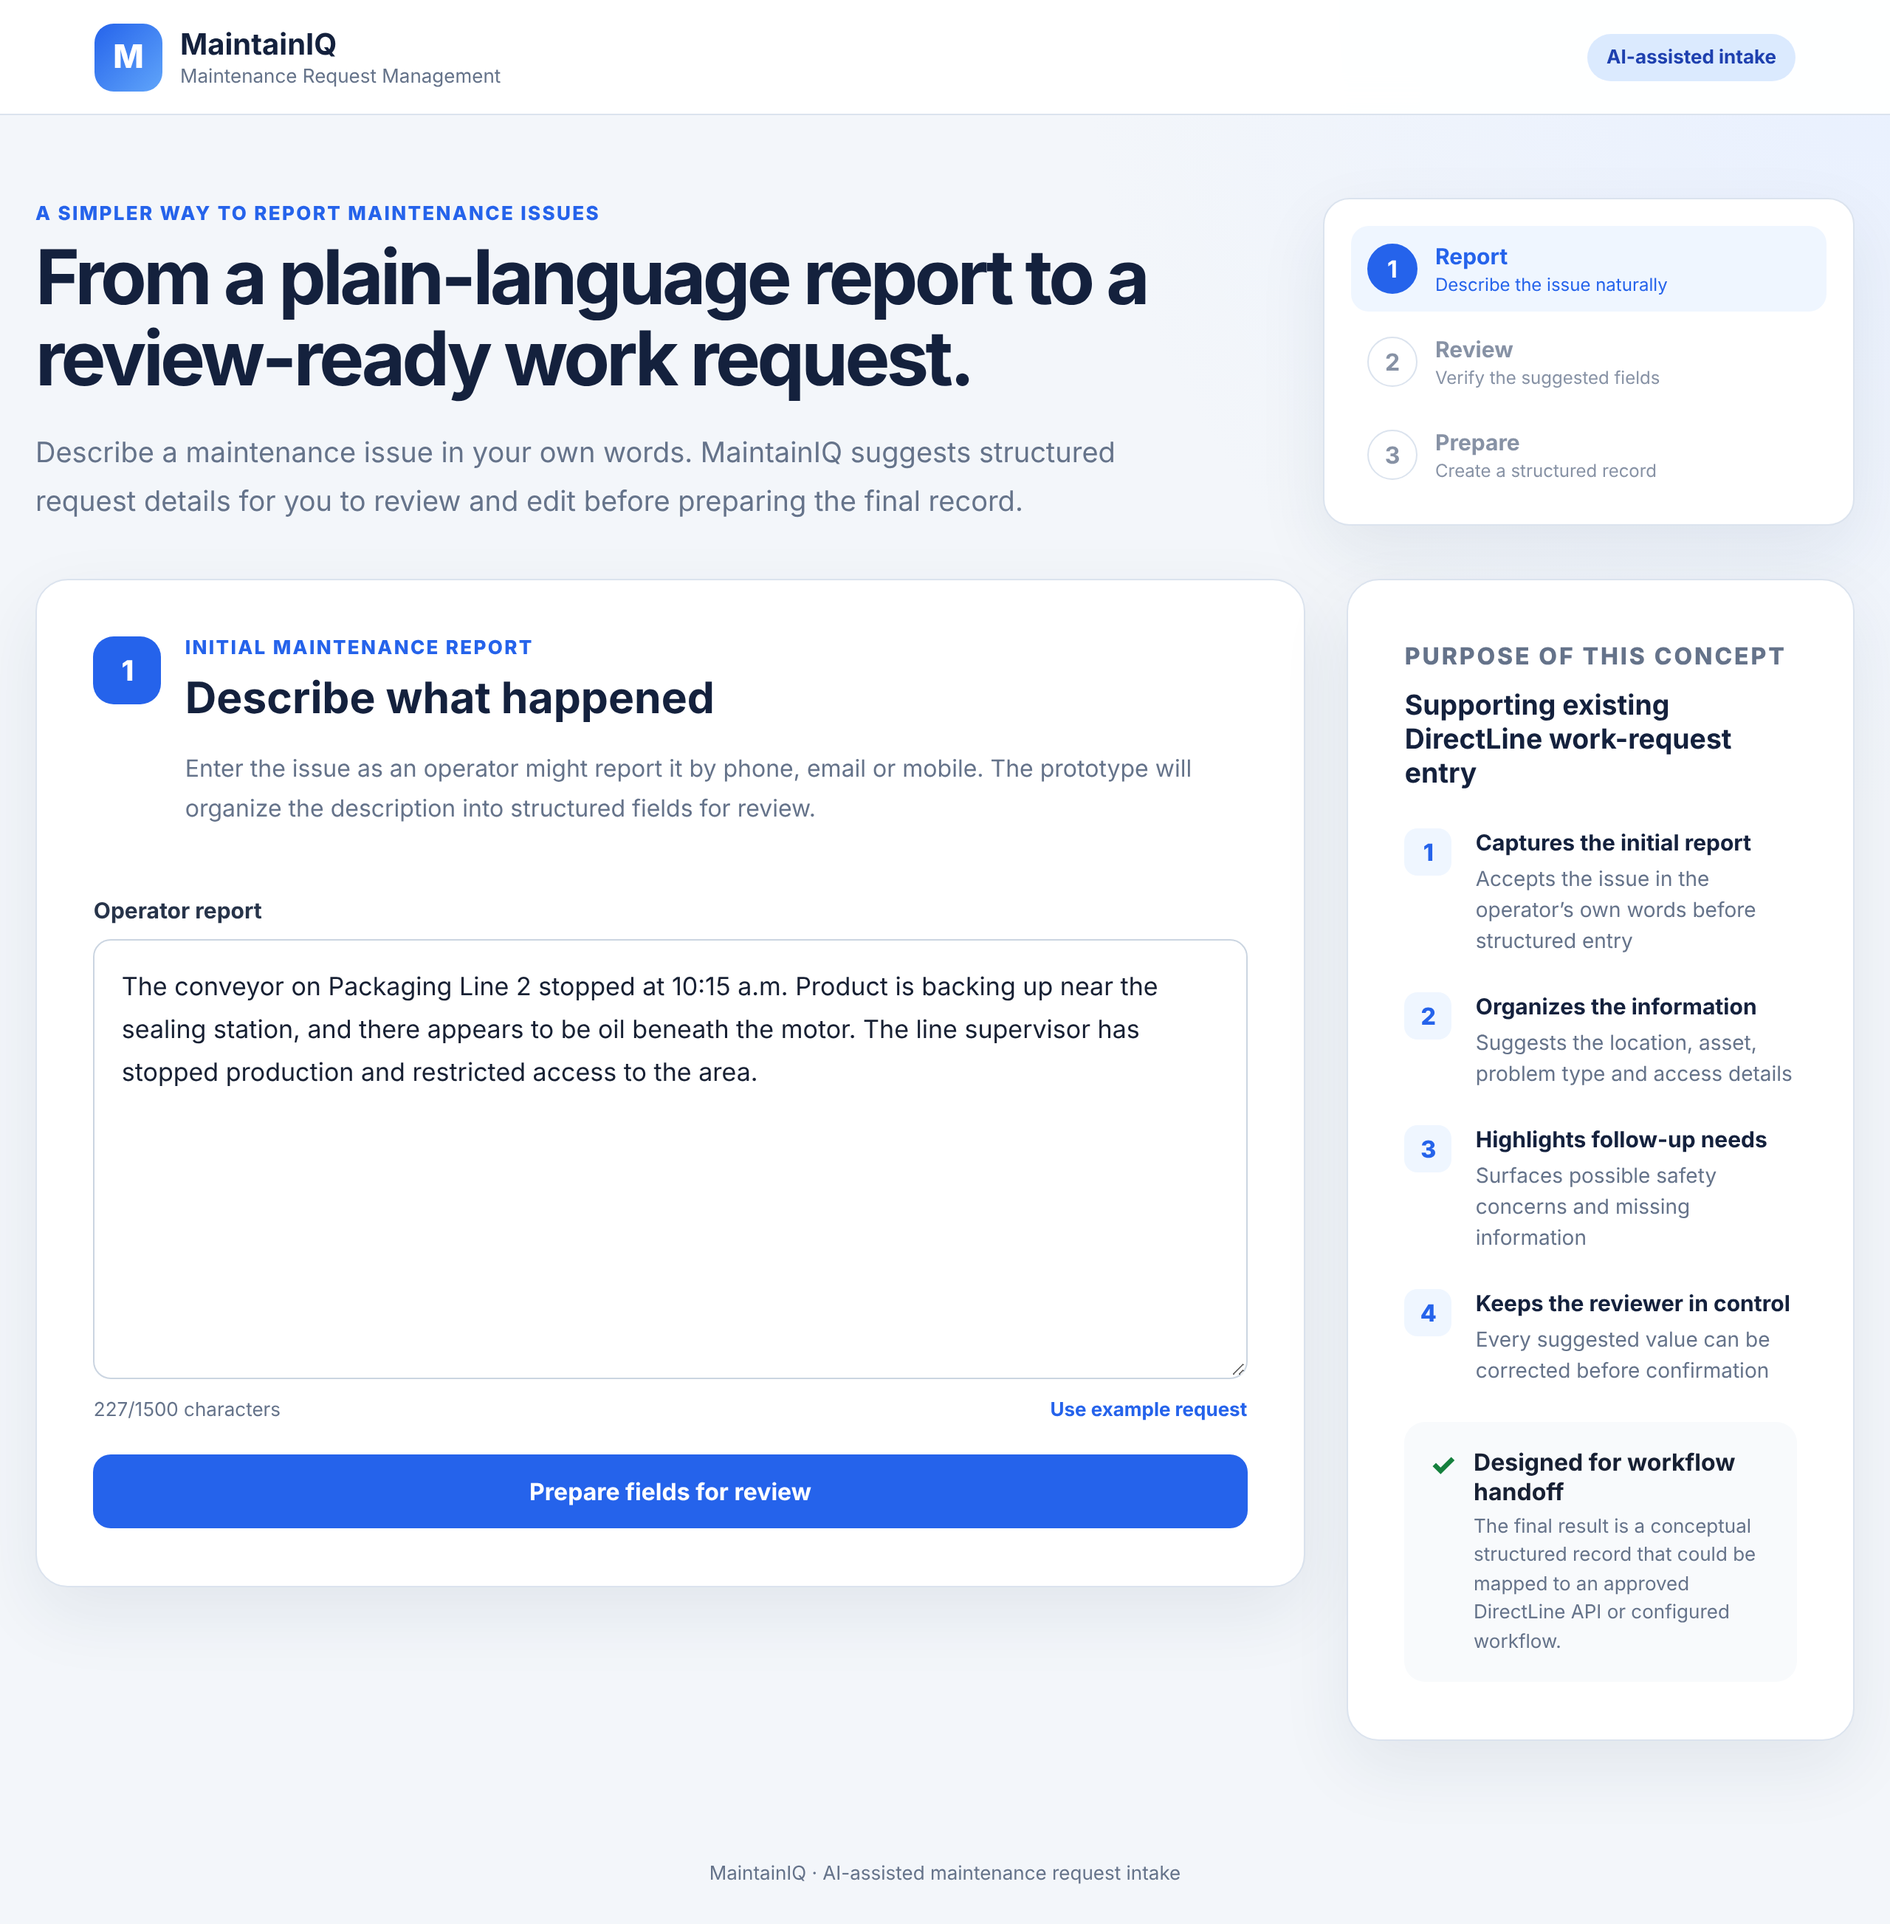
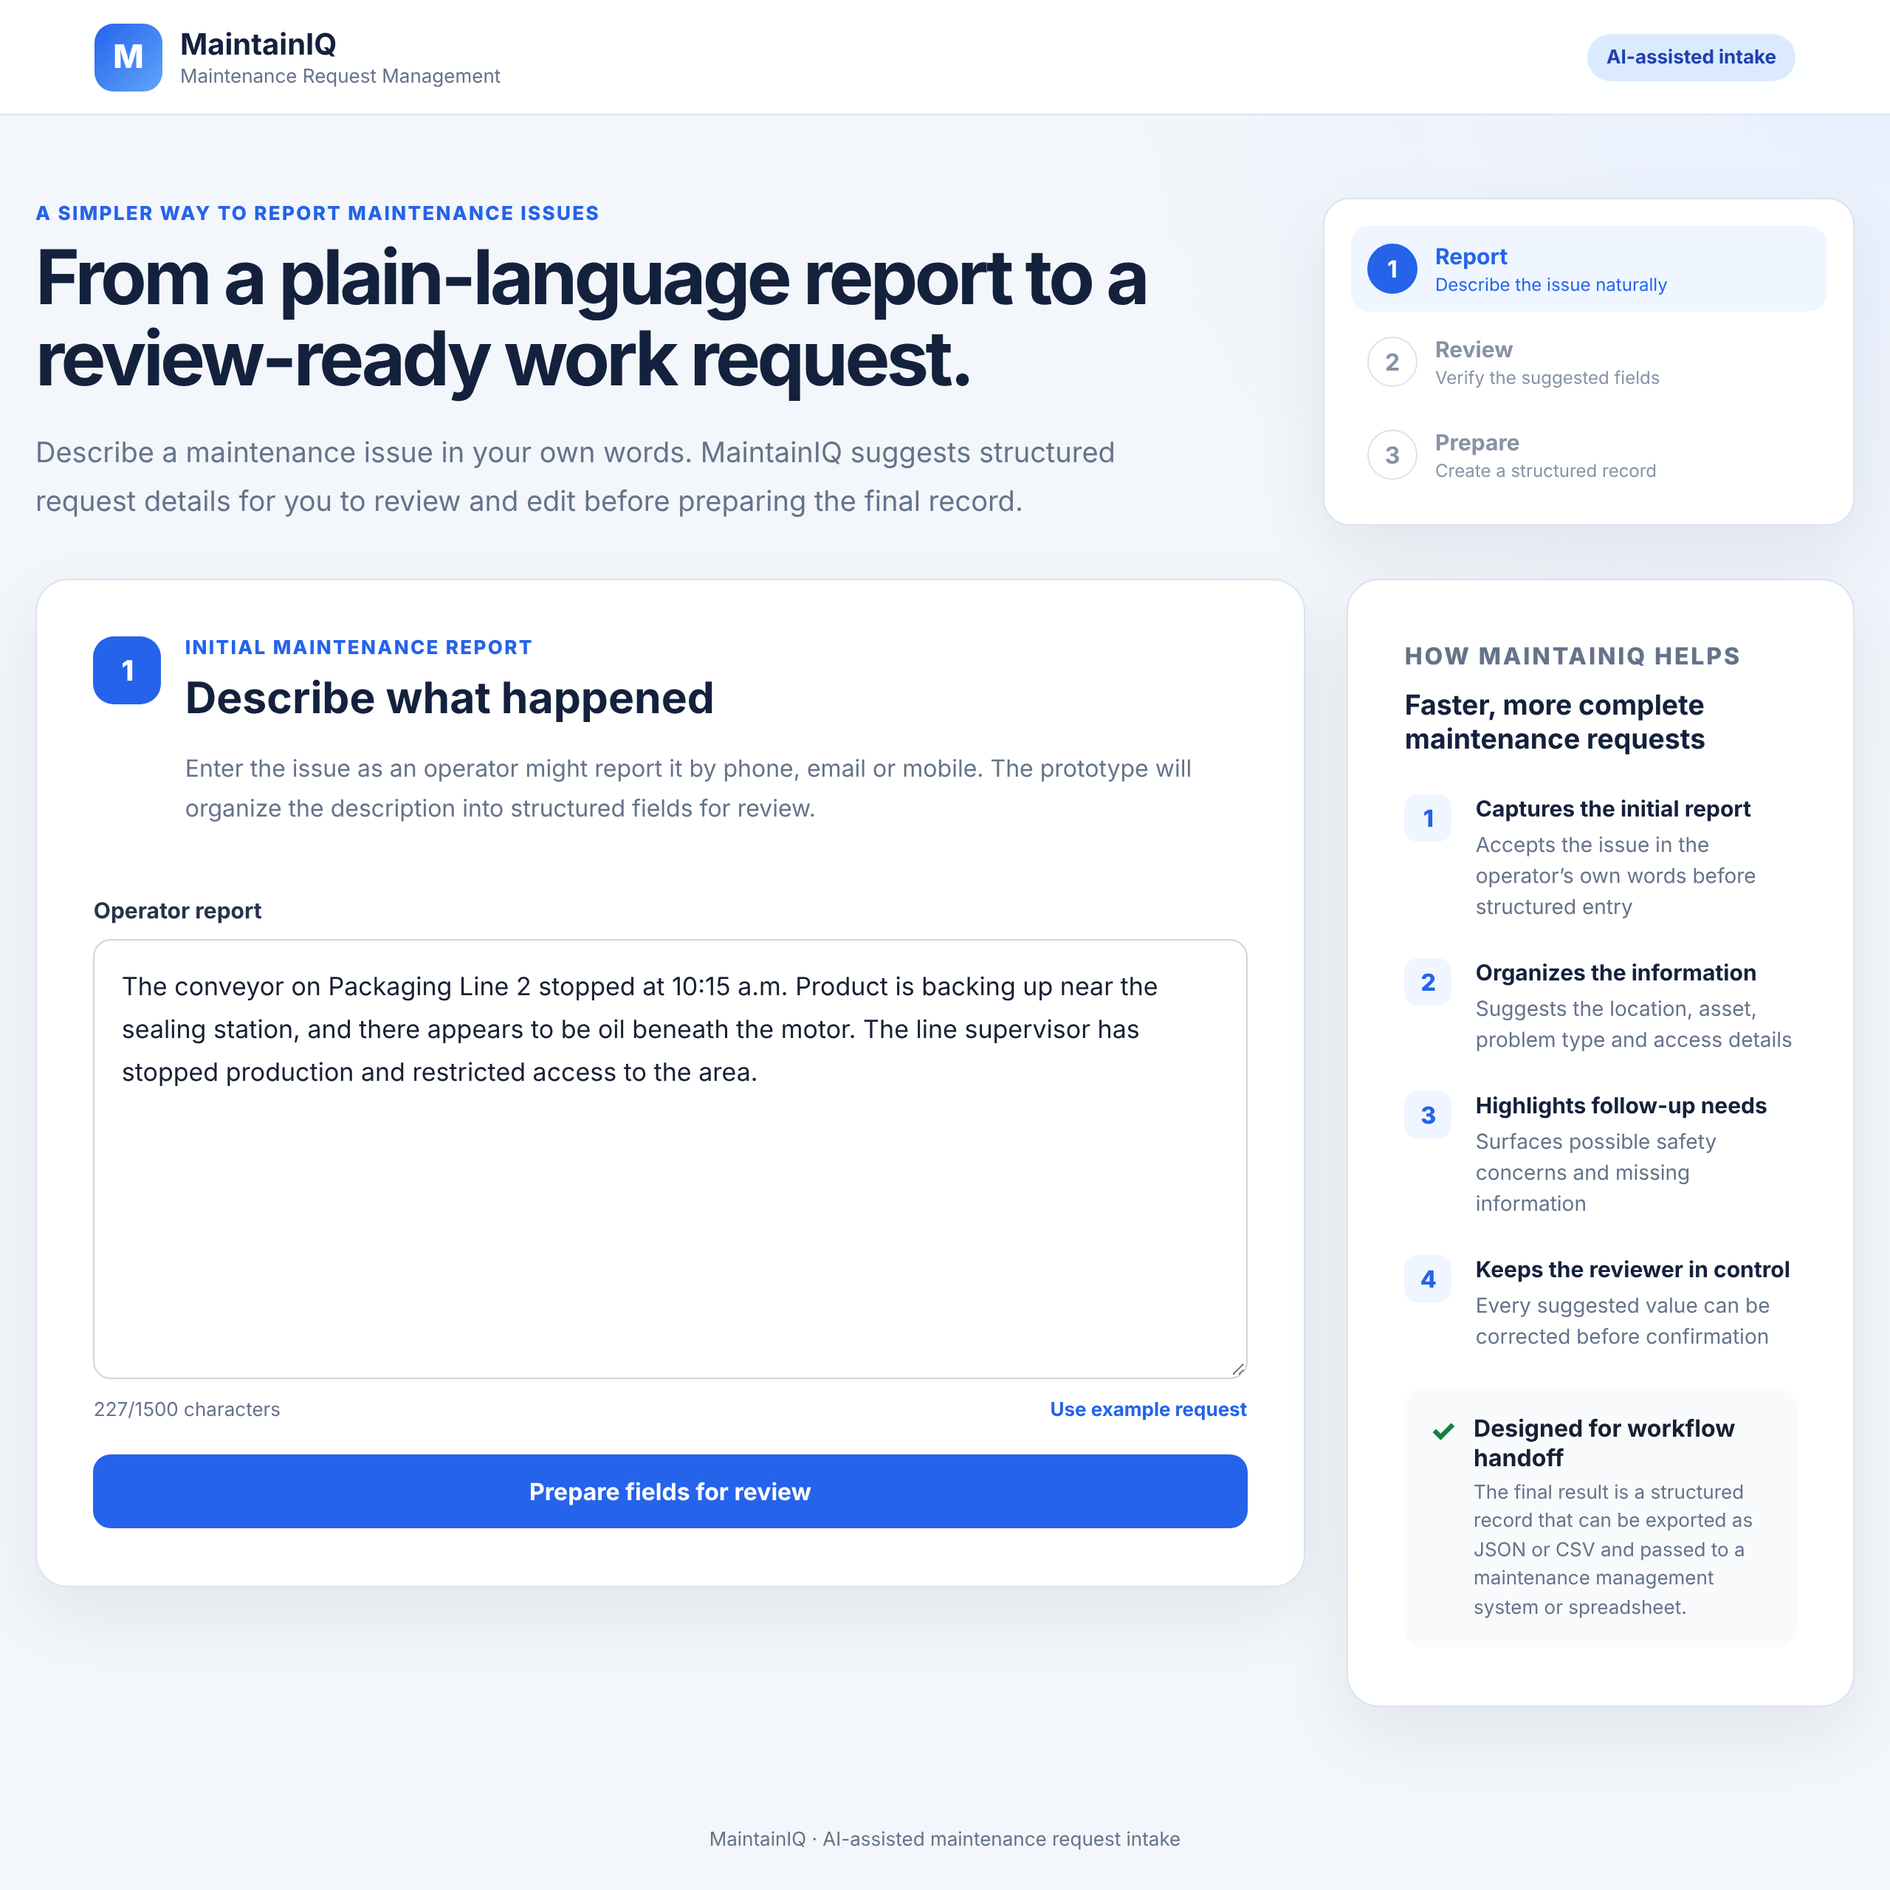
docs: present MaintainIQ as an independent project; remove third-party product references
Removes all mentions of an outside vendor and its product from the README
and the intake screen, renames the README heading to MaintainIQ Intake,
rewords the integration section in neutral terms, and recaptures the two
intake screenshots that showed the old panel text.

Claude-Session: https://claude.ai/code/session_01LBTgcysjfvsp2whBUwaBUP

diff --git a/src/components/WorkRequestIntake.jsx b/src/components/WorkRequestIntake.jsx
@@ -96,9 +96,9 @@ function WorkRequestIntake({ onAnalysisComplete }) {
       </div>
 
      <aside className="panel explanation-panel">
-  <p className="eyebrow">Purpose of this concept</p>
+  <p className="eyebrow">How MaintainIQ helps</p>
 
-  <h3>Supporting existing DirectLine work-request entry</h3>
+  <h3>Faster, more complete maintenance requests</h3>
 
   <ol className="feature-steps">
     <li>
@@ -138,9 +138,9 @@ function WorkRequestIntake({ onAnalysisComplete }) {
       <strong>Designed for workflow handoff</strong>
 
       <p>
-        The final result is a conceptual structured record that
-        could be mapped to an approved DirectLine API or configured
-        workflow.
+        The final result is a structured record that can be
+        exported as JSON or CSV and passed to a maintenance
+        management system or spreadsheet.
       </p>
     </div>
   </div>

diff --git a/README.md b/README.md
@@ -1,12 +1,10 @@
-# CMMS Work Request Intake Concept
+# MaintainIQ Intake
 
 [![CI](https://github.com/bharathgopalswamy/maintainiq-intake/actions/workflows/ci.yml/badge.svg)](https://github.com/bharathgopalswamy/maintainiq-intake/actions/workflows/ci.yml)
 
-An independent proof-of-concept that explores how a plain-language maintenance report could be converted into structured work-request fields before continuing through an existing CMMS workflow.
+MaintainIQ Intake turns a plain-language maintenance report into structured, reviewed work-request fields that are ready to hand off to a maintenance team, spreadsheet or maintenance management system (CMMS).
 
 The application uses Gemini to extract relevant information, applies deterministic safety checks, validates the resulting structure and requires a person to review the information before preparing the final record.
-
-> This is an independent portfolio project. It is not affiliated with, endorsed by or connected to Megamation or DirectLine.
 
 ## Screenshots
 
@@ -488,30 +486,29 @@ A production implementation would additionally require:
 
 ## Current limitations
 
-This project is a focused proof-of-concept.
+This is a portfolio project.
 
 It currently:
 
 - Uses fictional maintenance data
-- Does not connect to DirectLine
 - Does not create a real CMMS work order
 - Does not store records in a database
 - Does not include user authentication
 - Does not know a facility's real asset hierarchy
 - Does not replace a maintenance planner
-- Has not been evaluated with real CMMS customers
+- Has not been tested with real maintenance teams
 
 The suggested priority is a starting point for human review, not an operational authorization.
 
-## Potential integration direction
+## Possible next steps
 
-If the concept were validated, a future implementation could:
+A fuller version could:
 
 1. Map prepared fields to an approved CMMS data model.
 2. Load customer-specific locations and assets.
 3. Apply configured priority and criticality rules.
-4. Authenticate users through the existing platform.
-5. Send the reviewed payload through an approved API.
+4. Authenticate users and apply role-based access.
+5. Send the reviewed payload to a maintenance system through its API.
 6. Record the original report, prepared values and human changes.
 7. Measure completion time, corrections and request quality.
 
@@ -539,9 +536,7 @@ Later improvements — the test suites, CI, Docker, the server refactor and the 
 
 ## Disclaimer
 
-This is an independent educational and portfolio concept created by Bharath Gopalsamy.
-
-It is not affiliated with, endorsed by or connected to Megamation Systems Inc. or its DirectLine product. All examples use fictional maintenance data. DirectLine and Megamation are referenced only to describe the workflow context that inspired the project.
+This is a personal portfolio project created by Bharath Gopalsamy. All examples use fictional maintenance data.
 
 ## Author
 
